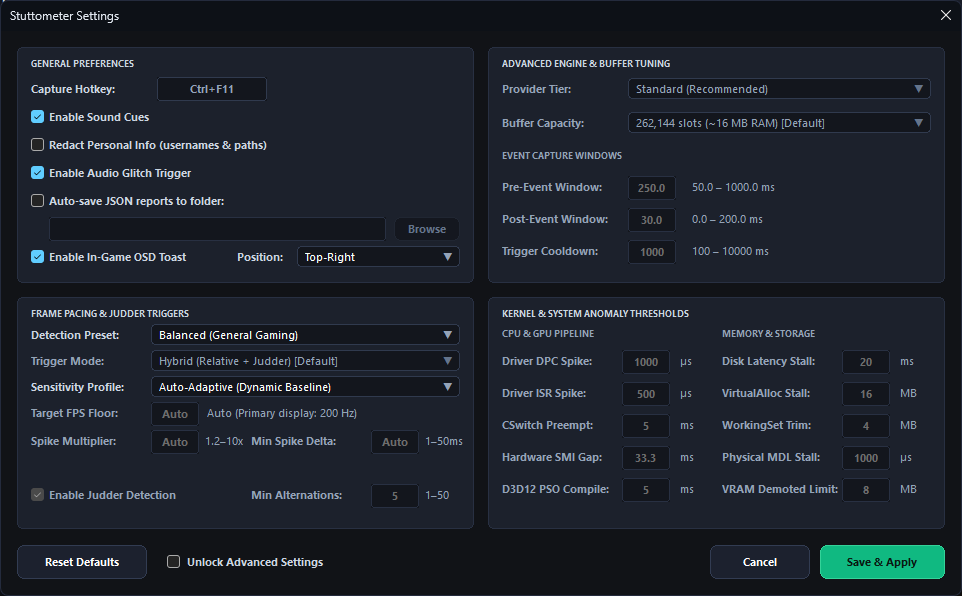
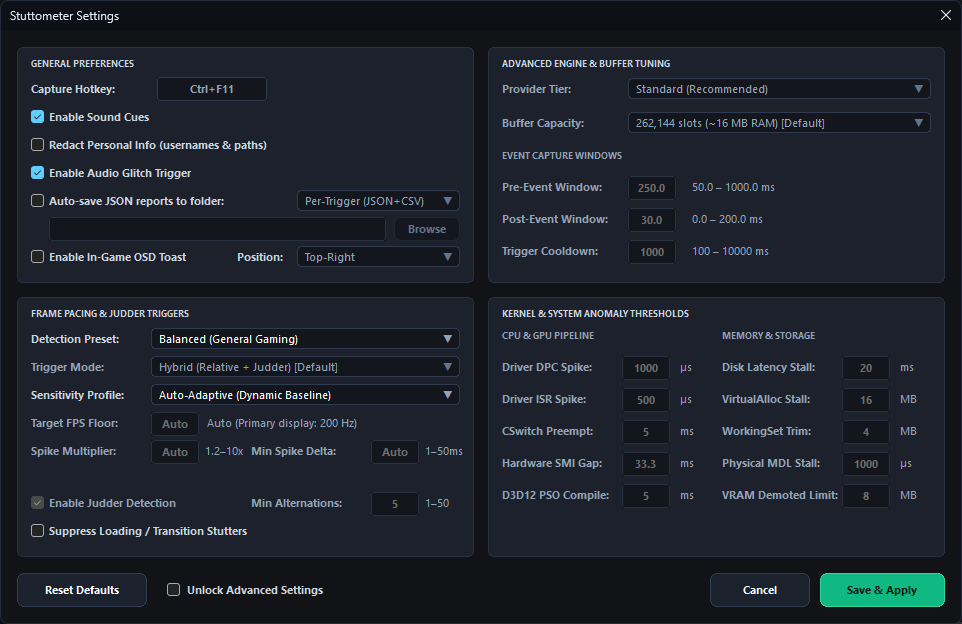
gui: fix benchmark button theme hardcoding, settings spacing, and README screenshots

diff --git a/src/gui/settings_dialog.cpp b/src/gui/settings_dialog.cpp
@@ -591,19 +591,19 @@ static void layout_settings_controls(HWND hwnd, SettingsDialogState* state) {
     const int c2_y = scale_y(266);
     const int c2_w = col_w;
 
-    int p0_y = c2_y + scale_y(26);
+    int p0_y = c2_y + scale_y(30);
     MoveWindow(state->h_combo_preset, c2_x + scale_dpi(134), p0_y + scale_dpi(1), c2_w - scale_dpi(148), scale_dpi(150), TRUE);
 
-    int p1_y = c2_y + scale_y(52);
+    int p1_y = c2_y + scale_y(58);
     MoveWindow(state->h_combo_trig_mode, c2_x + scale_dpi(134), p1_y + scale_dpi(1), c2_w - scale_dpi(148), scale_dpi(150), TRUE);
 
-    int p2_y = c2_y + scale_y(78);
+    int p2_y = c2_y + scale_y(86);
     MoveWindow(state->h_combo_pacing_profile, c2_x + scale_dpi(134), p2_y + scale_dpi(1), c2_w - scale_dpi(148), scale_dpi(150), TRUE);
 
-    int p3_y = c2_y + scale_y(104);
+    int p3_y = c2_y + scale_y(114);
     MoveWindow(state->h_edit_target_fps, c2_x + scale_dpi(134), p3_y + scale_dpi(1), scale_dpi(48), ctrl_h, TRUE);
 
-    int p4_y = c2_y + scale_y(132);
+    int p4_y = c2_y + scale_y(142);
     int sm_edit_x = c2_x + scale_dpi(134);
     int th_pacing_w = scale_dpi(48);
     MoveWindow(state->h_edit_spike_mult, sm_edit_x, p4_y + scale_dpi(1), th_pacing_w, ctrl_h, TRUE);
@@ -611,22 +611,22 @@ static void layout_settings_controls(HWND hwnd, SettingsDialogState* state) {
     int md_edit_x = c2_x + scale_dpi(354);
     MoveWindow(state->h_edit_min_delta, md_edit_x, p4_y + scale_dpi(1), th_pacing_w, ctrl_h, TRUE);
 
-    int p5_hint_y = c2_y + scale_y(160);
-    MoveWindow(state->h_lbl_profile_hint, c2_x + scale_dpi(14), p5_hint_y, c2_w - scale_dpi(28), scale_dpi(18), TRUE);
+    int p5_hint_y = c2_y + scale_y(170);
+    MoveWindow(state->h_lbl_profile_hint, c2_x + scale_dpi(14), p5_hint_y, c2_w - scale_dpi(28), scale_y(18), TRUE);
 
-    int p6_jud_y = c2_y + scale_y(186);
+    int p6_jud_y = c2_y + scale_y(194);
     MoveWindow(state->h_chk_judder, c2_x + scale_dpi(14), p6_jud_y + (ctrl_h - scale_dpi(18)) / 2, scale_dpi(18), scale_dpi(18), TRUE);
     state->rc_lbl_judder = { c2_x + scale_dpi(32), p6_jud_y, (std::min<int>)(c2_x + scale_dpi(32) + static_cast<int>(sz_jud.cx) + scale_dpi(6), c2_x + scale_dpi(230)), p6_jud_y + ctrl_h };
 
     int j_edit_x = c2_x + scale_dpi(354);
     MoveWindow(state->h_edit_judder_min_alt, j_edit_x, p6_jud_y + scale_dpi(1), th_pacing_w, ctrl_h, TRUE);
 
-    int p7_sal_y = c2_y + scale_y(214);
+    int p7_sal_y = c2_y + scale_y(222);
     MoveWindow(state->h_chk_transition_salience, c2_x + scale_dpi(14), p7_sal_y + (ctrl_h - scale_dpi(18)) / 2, scale_dpi(18), scale_dpi(18), TRUE);
     state->rc_lbl_transition_salience = { c2_x + scale_dpi(32), p7_sal_y, (std::min<int>)(c2_x + scale_dpi(32) + static_cast<int>(sz_sal.cx) + scale_dpi(6), c2_x + c2_w - scale_dpi(14)), p7_sal_y + ctrl_h };
 
     // ==========================================
-    // RIGHT COLUMN: Card 4 (Kernel & System Anomaly Thresholds) (Y: 266, H: 232)
+    // RIGHT COLUMN: Card 4 (Kernel & System Anomaly Thresholds) (Y: 266, H: 260)
     // Organized into 2 balanced sub-columns
     // ==========================================
     const int c4_x = c_right_x;
@@ -636,11 +636,11 @@ static void layout_settings_controls(HWND hwnd, SettingsDialogState* state) {
     const int col2_edit_x = c4_x + scale_dpi(354);
     const int th_edit_w = scale_dpi(48);
 
-    int k1_y = c4_y + scale_y(52);
-    int k2_y = c4_y + scale_y(84);
-    int k3_y = c4_y + scale_y(116);
-    int k4_y = c4_y + scale_y(148);
-    int k5_y = c4_y + scale_y(180);
+    int k1_y = c4_y + scale_y(58);
+    int k2_y = c4_y + scale_y(90);
+    int k3_y = c4_y + scale_y(122);
+    int k4_y = c4_y + scale_y(154);
+    int k5_y = c4_y + scale_y(186);
 
     // Left Sub-Column (CPU & GPU Pipeline)
     MoveWindow(state->h_edit_dpc, col1_edit_x, k1_y + scale_dpi(1), th_edit_w, ctrl_h, TRUE);
@@ -1110,16 +1110,16 @@ static LRESULT CALLBACK SettingsWindowProc(HWND hwnd, UINT uMsg, WPARAM wParam, 
             SelectObject(mem_dc, g_font_ui_sm_bold);
             SetTextColor(mem_dc, COLOR_TEXT_LABEL);
 
-            RECT t1 = { c1_x + scale_dpi(14), c1_y + scale_dpi(8), c1_x + c1_w, c1_y + scale_dpi(24) };
+            RECT t1 = { c1_x + scale_dpi(14), c1_y + scale_y(8), c1_x + c1_w, c1_y + scale_y(24) };
             DrawTextW(mem_dc, L"GENERAL PREFERENCES", -1, &t1, DT_LEFT | DT_VCENTER | DT_SINGLELINE | DT_NOPREFIX);
 
-            RECT t3 = { c3_x + scale_dpi(14), c3_y + scale_dpi(8), c3_x + c3_w, c3_y + scale_dpi(24) };
+            RECT t3 = { c3_x + scale_dpi(14), c3_y + scale_y(8), c3_x + c3_w, c3_y + scale_y(24) };
             DrawTextW(mem_dc, L"ADVANCED ENGINE & BUFFER TUNING", -1, &t3, DT_LEFT | DT_VCENTER | DT_SINGLELINE | DT_NOPREFIX);
 
-            RECT t2 = { c2_x + scale_dpi(14), c2_y + scale_dpi(8), c2_x + c2_w, c2_y + scale_dpi(24) };
+            RECT t2 = { c2_x + scale_dpi(14), c2_y + scale_y(8), c2_x + c2_w, c2_y + scale_y(24) };
             DrawTextW(mem_dc, L"FRAME PACING & JUDDER TRIGGERS", -1, &t2, DT_LEFT | DT_VCENTER | DT_SINGLELINE | DT_NOPREFIX);
 
-            RECT t4 = { c4_x + scale_dpi(14), c4_y + scale_dpi(8), c4_x + c4_w, c4_y + scale_dpi(24) };
+            RECT t4 = { c4_x + scale_dpi(14), c4_y + scale_y(8), c4_x + c4_w, c4_y + scale_y(24) };
             DrawTextW(mem_dc, L"KERNEL & SYSTEM ANOMALY THRESHOLDS", -1, &t4, DT_LEFT | DT_VCENTER | DT_SINGLELINE | DT_NOPREFIX);
 
             // Card 1 Labels (General Preferences)
@@ -1186,12 +1186,12 @@ static LRESULT CALLBACK SettingsWindowProc(HWND hwnd, UINT uMsg, WPARAM wParam, 
             // Card 2 Labels (Frame Pacing & Judder Triggers)
             SelectObject(mem_dc, g_font_ui_bold);
 
-            int p0_y = c2_y + scale_y(26);
+            int p0_y = c2_y + scale_y(30);
             RECT rc_lbl_preset = { c2_x + scale_dpi(14), p0_y, c2_x + scale_dpi(130), p0_y + ctrl_h };
             SetTextColor(mem_dc, COLOR_TEXT_LABEL);
             DrawTextW(mem_dc, L"Detection Preset:", -1, &rc_lbl_preset, DT_LEFT | DT_VCENTER | DT_SINGLELINE | DT_NOPREFIX | DT_END_ELLIPSIS);
 
-            int p1_y = c2_y + scale_y(52);
+            int p1_y = c2_y + scale_y(58);
             RECT rc_lbl_tm = { c2_x + scale_dpi(14), p1_y, c2_x + scale_dpi(130), p1_y + ctrl_h };
             SetTextColor(mem_dc, adv_lbl_color);
             DrawTextW(mem_dc, L"Trigger Mode:", -1, &rc_lbl_tm, DT_LEFT | DT_VCENTER | DT_SINGLELINE | DT_NOPREFIX | DT_END_ELLIPSIS);
@@ -1201,12 +1201,12 @@ static LRESULT CALLBACK SettingsWindowProc(HWND hwnd, UINT uMsg, WPARAM wParam, 
 
             COLORREF prof_lbl_color = (mode_paint != FrameTriggerMode::STATIC_ONLY) ? COLOR_TEXT_LABEL : COLOR_TEXT_MUTED;
             SetTextColor(mem_dc, prof_lbl_color);
-            int p2_y = c2_y + scale_y(78);
+            int p2_y = c2_y + scale_y(86);
             RECT rc_lbl_prof = { c2_x + scale_dpi(14), p2_y, c2_x + scale_dpi(130), p2_y + ctrl_h };
             DrawTextW(mem_dc, L"Sensitivity Profile:", -1, &rc_lbl_prof, DT_LEFT | DT_VCENTER | DT_SINGLELINE | DT_NOPREFIX | DT_END_ELLIPSIS);
 
             SetTextColor(mem_dc, adv_lbl_color);
-            int p3_y = c2_y + scale_y(104);
+            int p3_y = c2_y + scale_y(114);
             RECT rc_lbl_fps = { c2_x + scale_dpi(14), p3_y, c2_x + scale_dpi(130), p3_y + ctrl_h };
             DrawTextW(mem_dc, L"Target FPS Floor:", -1, &rc_lbl_fps, DT_LEFT | DT_VCENTER | DT_SINGLELINE | DT_NOPREFIX | DT_END_ELLIPSIS);
 
@@ -1253,7 +1253,7 @@ static LRESULT CALLBACK SettingsWindowProc(HWND hwnd, UINT uMsg, WPARAM wParam, 
                 }
             }
 
-            int p4_y = c2_y + scale_y(132);
+            int p4_y = c2_y + scale_y(142);
             int sm_edit_x = c2_x + scale_dpi(134);
             int sm_edit_w = scale_dpi(48);
             int md_edit_x = c2_x + scale_dpi(354);
@@ -1277,7 +1277,7 @@ static LRESULT CALLBACK SettingsWindowProc(HWND hwnd, UINT uMsg, WPARAM wParam, 
             RECT rc_lbl_md_unit = { md_edit_x + md_edit_w + scale_dpi(6), p4_y, c2_x + c2_w - scale_dpi(10), p4_y + ctrl_h };
             DrawTextW(mem_dc, L"1\u201350ms", -1, &rc_lbl_md_unit, DT_LEFT | DT_VCENTER | DT_SINGLELINE | DT_NOPREFIX | DT_END_ELLIPSIS);
 
-            int p6_jud_y = c2_y + scale_y(186);
+            int p6_jud_y = c2_y + scale_y(194);
             SelectObject(mem_dc, g_font_ui_bold);
             SetTextColor(mem_dc, adv_lbl_color);
             DrawTextW(mem_dc, L"Enable Judder Detection", -1, &state->rc_lbl_judder, DT_LEFT | DT_VCENTER | DT_SINGLELINE | DT_NOPREFIX | DT_END_ELLIPSIS);
@@ -1304,20 +1304,20 @@ static LRESULT CALLBACK SettingsWindowProc(HWND hwnd, UINT uMsg, WPARAM wParam, 
             SelectObject(mem_dc, g_font_ui_sm_bold);
             SetTextColor(mem_dc, COLOR_TEXT_MUTED);
 
-            RECT rc_sub_cpu = { c4_x + scale_dpi(14), c4_y + scale_y(28), c4_x + scale_dpi(220), c4_y + scale_y(44) };
+            RECT rc_sub_cpu = { c4_x + scale_dpi(14), c4_y + scale_y(30), c4_x + scale_dpi(220), c4_y + scale_y(46) };
             DrawTextW(mem_dc, L"CPU & GPU PIPELINE", -1, &rc_sub_cpu, DT_LEFT | DT_VCENTER | DT_SINGLELINE | DT_NOPREFIX);
 
-            RECT rc_sub_mem = { c4_x + scale_dpi(234), c4_y + scale_y(28), c4_x + c4_w - scale_dpi(14), c4_y + scale_y(44) };
+            RECT rc_sub_mem = { c4_x + scale_dpi(234), c4_y + scale_y(30), c4_x + c4_w - scale_dpi(14), c4_y + scale_y(46) };
             DrawTextW(mem_dc, L"MEMORY & STORAGE", -1, &rc_sub_mem, DT_LEFT | DT_VCENTER | DT_SINGLELINE | DT_NOPREFIX);
 
             SelectObject(mem_dc, g_font_ui_bold);
             SetTextColor(mem_dc, adv_lbl_color);
 
-            int k1_y = c4_y + scale_y(52);
-            int k2_y = c4_y + scale_y(84);
-            int k3_y = c4_y + scale_y(116);
-            int k4_y = c4_y + scale_y(148);
-            int k5_y = c4_y + scale_y(180);
+            int k1_y = c4_y + scale_y(58);
+            int k2_y = c4_y + scale_y(90);
+            int k3_y = c4_y + scale_y(122);
+            int k4_y = c4_y + scale_y(154);
+            int k5_y = c4_y + scale_y(186);
 
             // Left Sub-Column Labels (CPU & GPU Pipeline)
             int col1_lbl_x = c4_x + scale_dpi(14);

diff --git a/src/gui/benchmark_view.cpp b/src/gui/benchmark_view.cpp
@@ -389,32 +389,22 @@ static LRESULT CALLBACK BenchmarkWindowProc(HWND hwnd, UINT uMsg, WPARAM wParam,
             FillRect(hdc, &rc, bg_parent);
             DeleteObject(bg_parent);
 
-            // Match main_gui.cpp BtnStyle palettes
-            COLORREF bg;
-            COLORREF border;
-            COLORREF text_color;
-
-            if (is_disabled) {
-                bg = RGB(22, 25, 33);
-                border = RGB(38, 46, 62);
-                text_color = RGB(100, 116, 139);
-            } else if (pDIS->CtlID == IDC_BENCH_RESET_SESSION) {
-                // DangerRed palette matching main_gui.cpp BtnStyle::DangerRed
-                bg = is_pressed ? RGB(153, 27, 27) : (is_hovered ? RGB(220, 38, 38) : RGB(185, 28, 28));
-                border = is_pressed ? RGB(185, 28, 28) : (is_hovered ? RGB(239, 68, 68) : RGB(220, 38, 38));
-                text_color = RGB(255, 255, 255);
-            } else {
-                bg = is_pressed ? RGB(22, 26, 36) : (is_hovered ? RGB(38, 45, 62) : RGB(28, 33, 46));
-                border = is_pressed ? RGB(44, 52, 72) : (is_hovered ? RGB(65, 78, 105) : RGB(50, 60, 82));
-                text_color = is_hovered ? RGB(241, 245, 249) : RGB(226, 232, 240);
-            }
+            // Resolve button palette from g_theme via shared helper
+            const BtnStyle style = (pDIS->CtlID == IDC_BENCH_RESET_SESSION)
+                ? BtnStyle::DangerRed
+                : BtnStyle::SecondarySlate;
+            const auto pal = resolve_button_palette(style, is_disabled, is_pressed, is_hovered);
 
             int dpi = state->dpi;
             int radius_px = MulDiv(12, dpi, 96); // True 6px radius via 12px diameter, matching main_gui.cpp
-            draw_rounded_card(hdc, rc, bg, border, radius_px);
+            HGDIOBJ old_br = SelectObject(hdc, pal.brush);
+            HGDIOBJ old_pen = SelectObject(hdc, pal.pen);
+            RoundRect(hdc, rc.left, rc.top, rc.right, rc.bottom, radius_px, radius_px);
+            SelectObject(hdc, old_pen);
+            SelectObject(hdc, old_br);
 
             SetBkMode(hdc, TRANSPARENT);
-            SetTextColor(hdc, text_color);
+            SetTextColor(hdc, pal.text_color);
             HGDIOBJ old_font = SelectObject(hdc, state->font_bold);
 
             std::wstring text;
